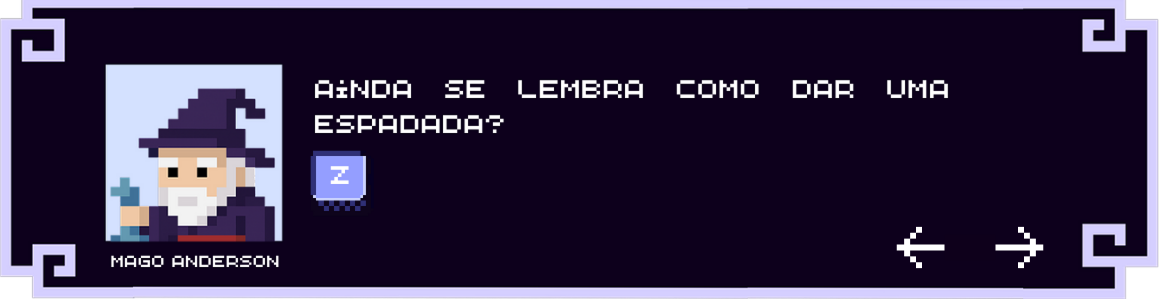
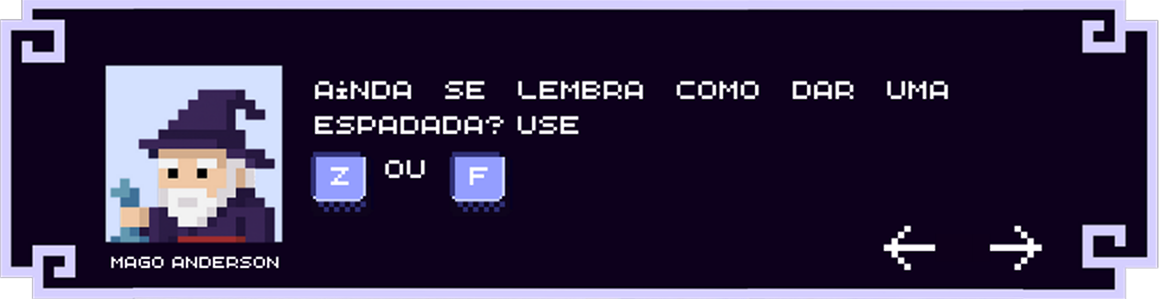
falas mago adicionado

diff --git a/npc.py b/npc.py
@@ -29,7 +29,7 @@ class NPC_Andy(pygame.sprite.Sprite):
         
         # DEF DE CONVERSAR COM O ANDY
         self.contador = 1  # Começa na fala 1
-        self.total_falas = 5  # Total de imagens de fala
+        self.total_falas = 6  # Total de imagens de fala
         
 
 
